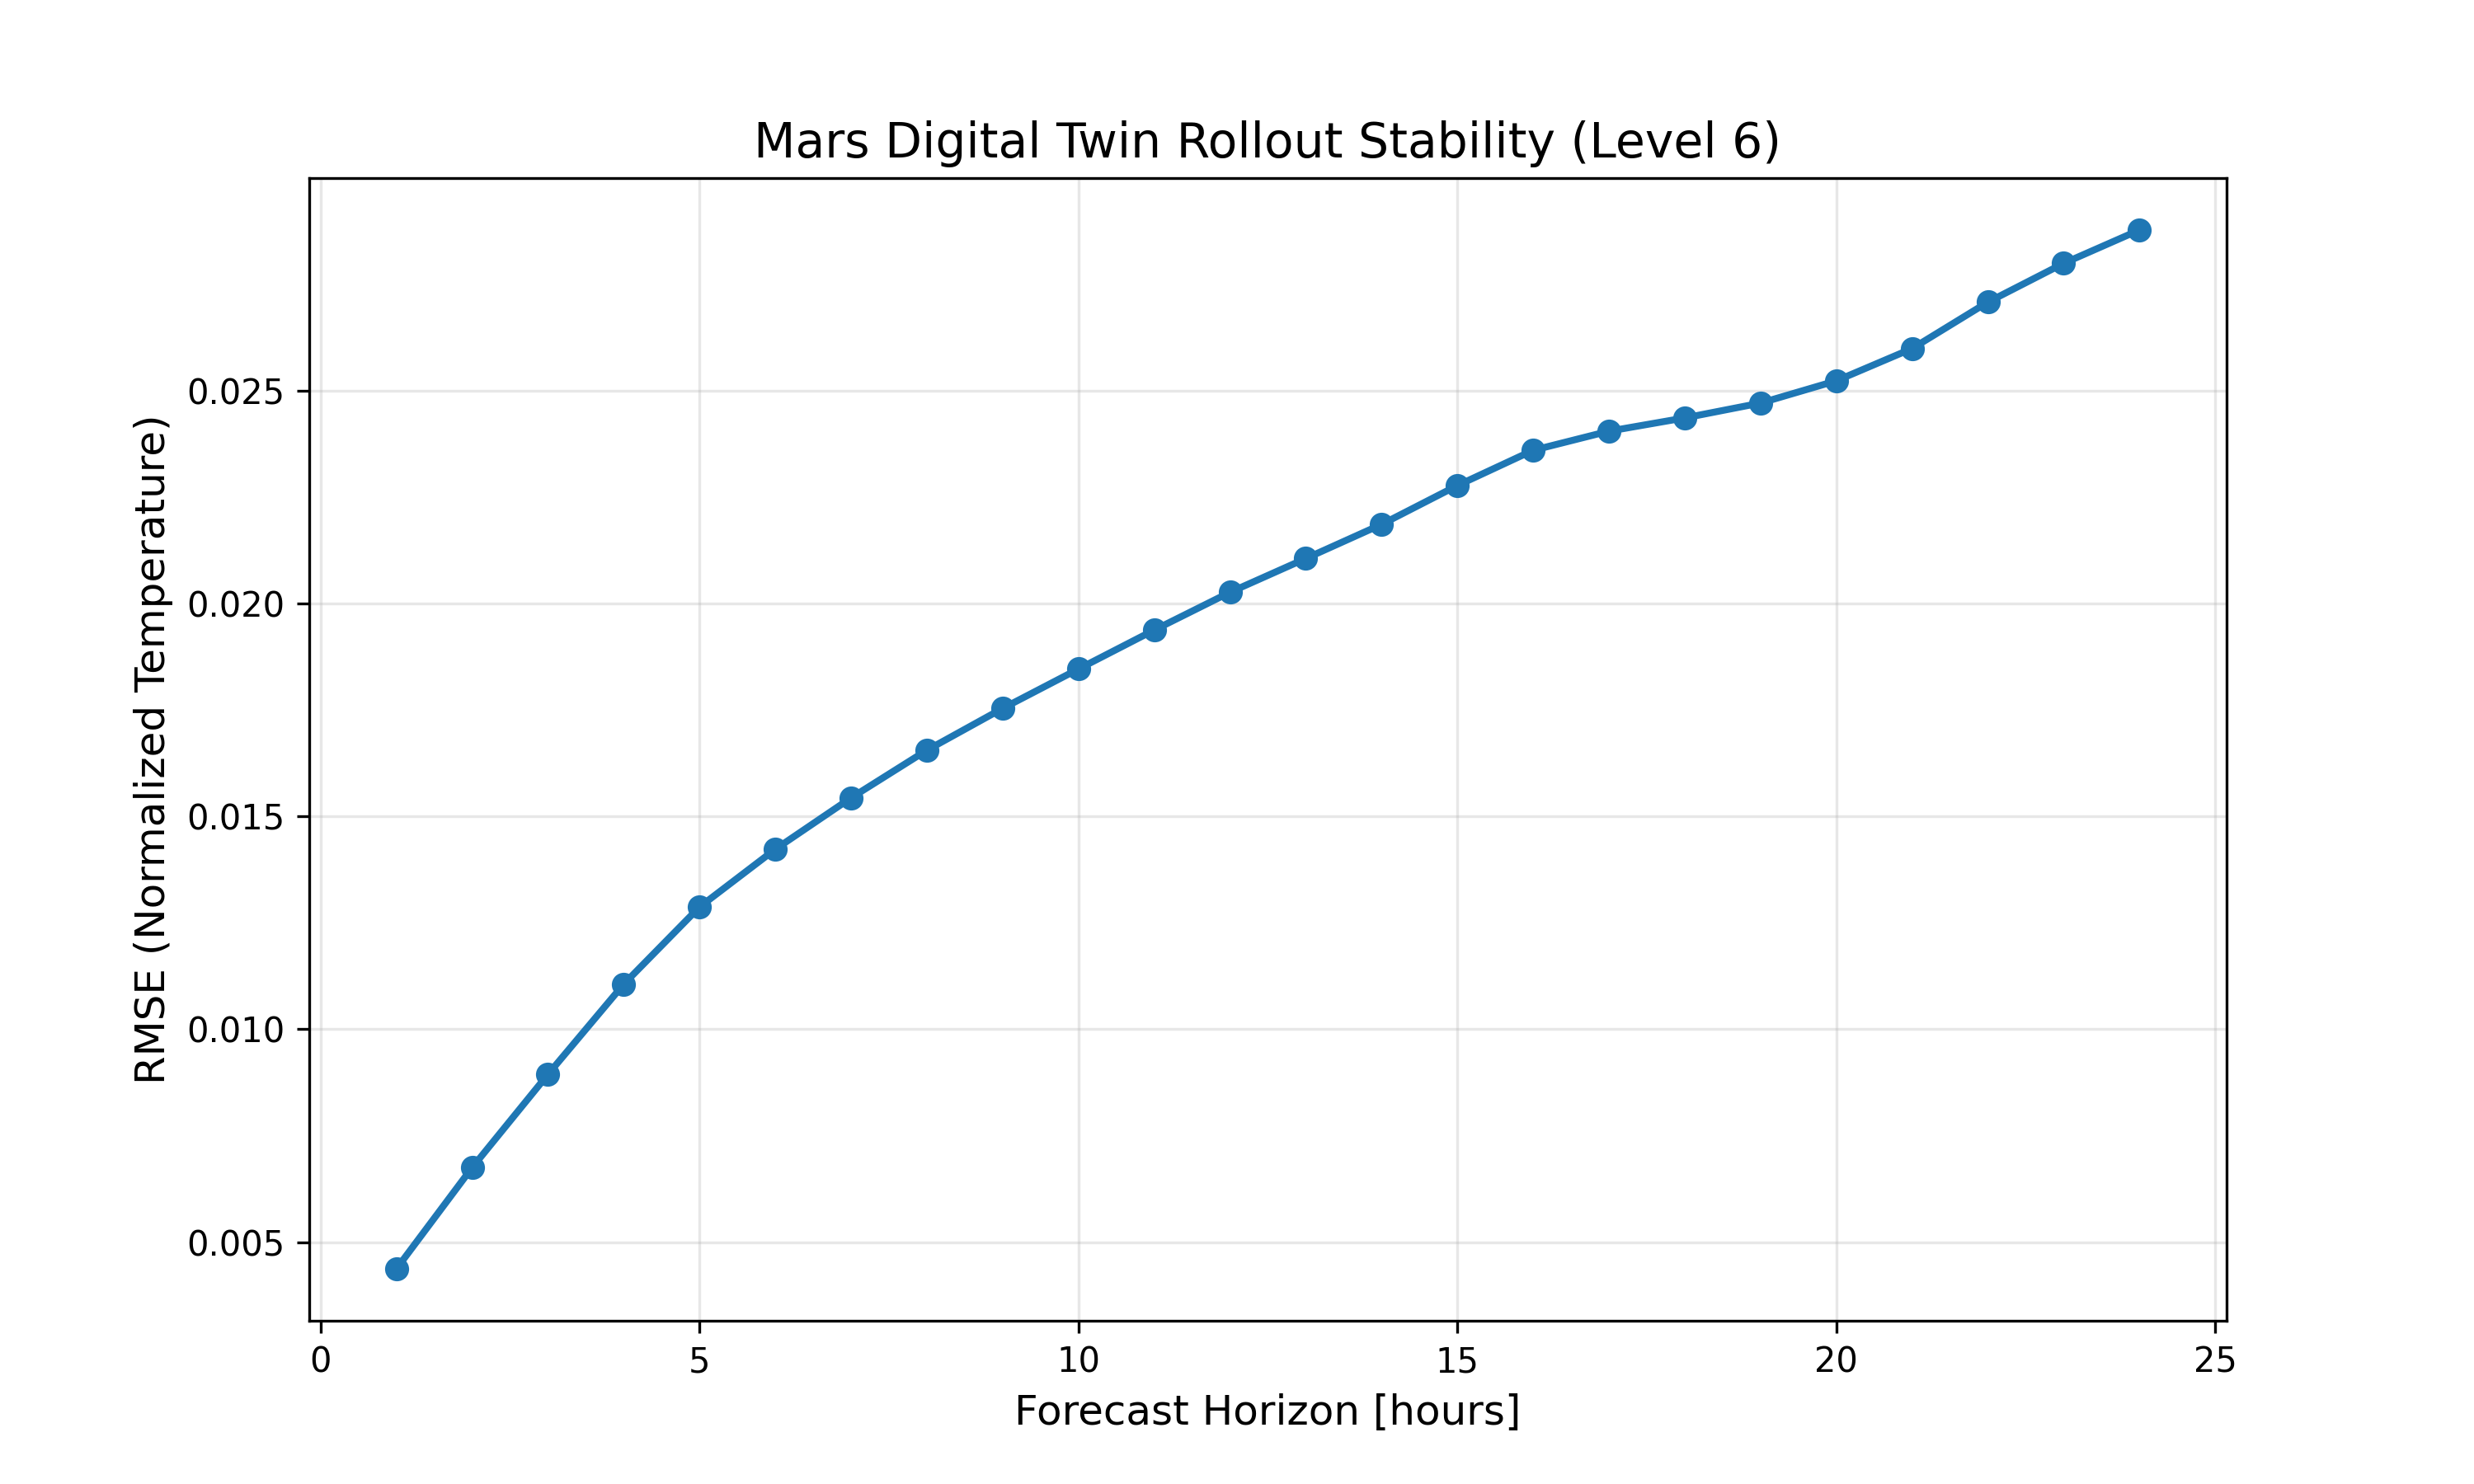
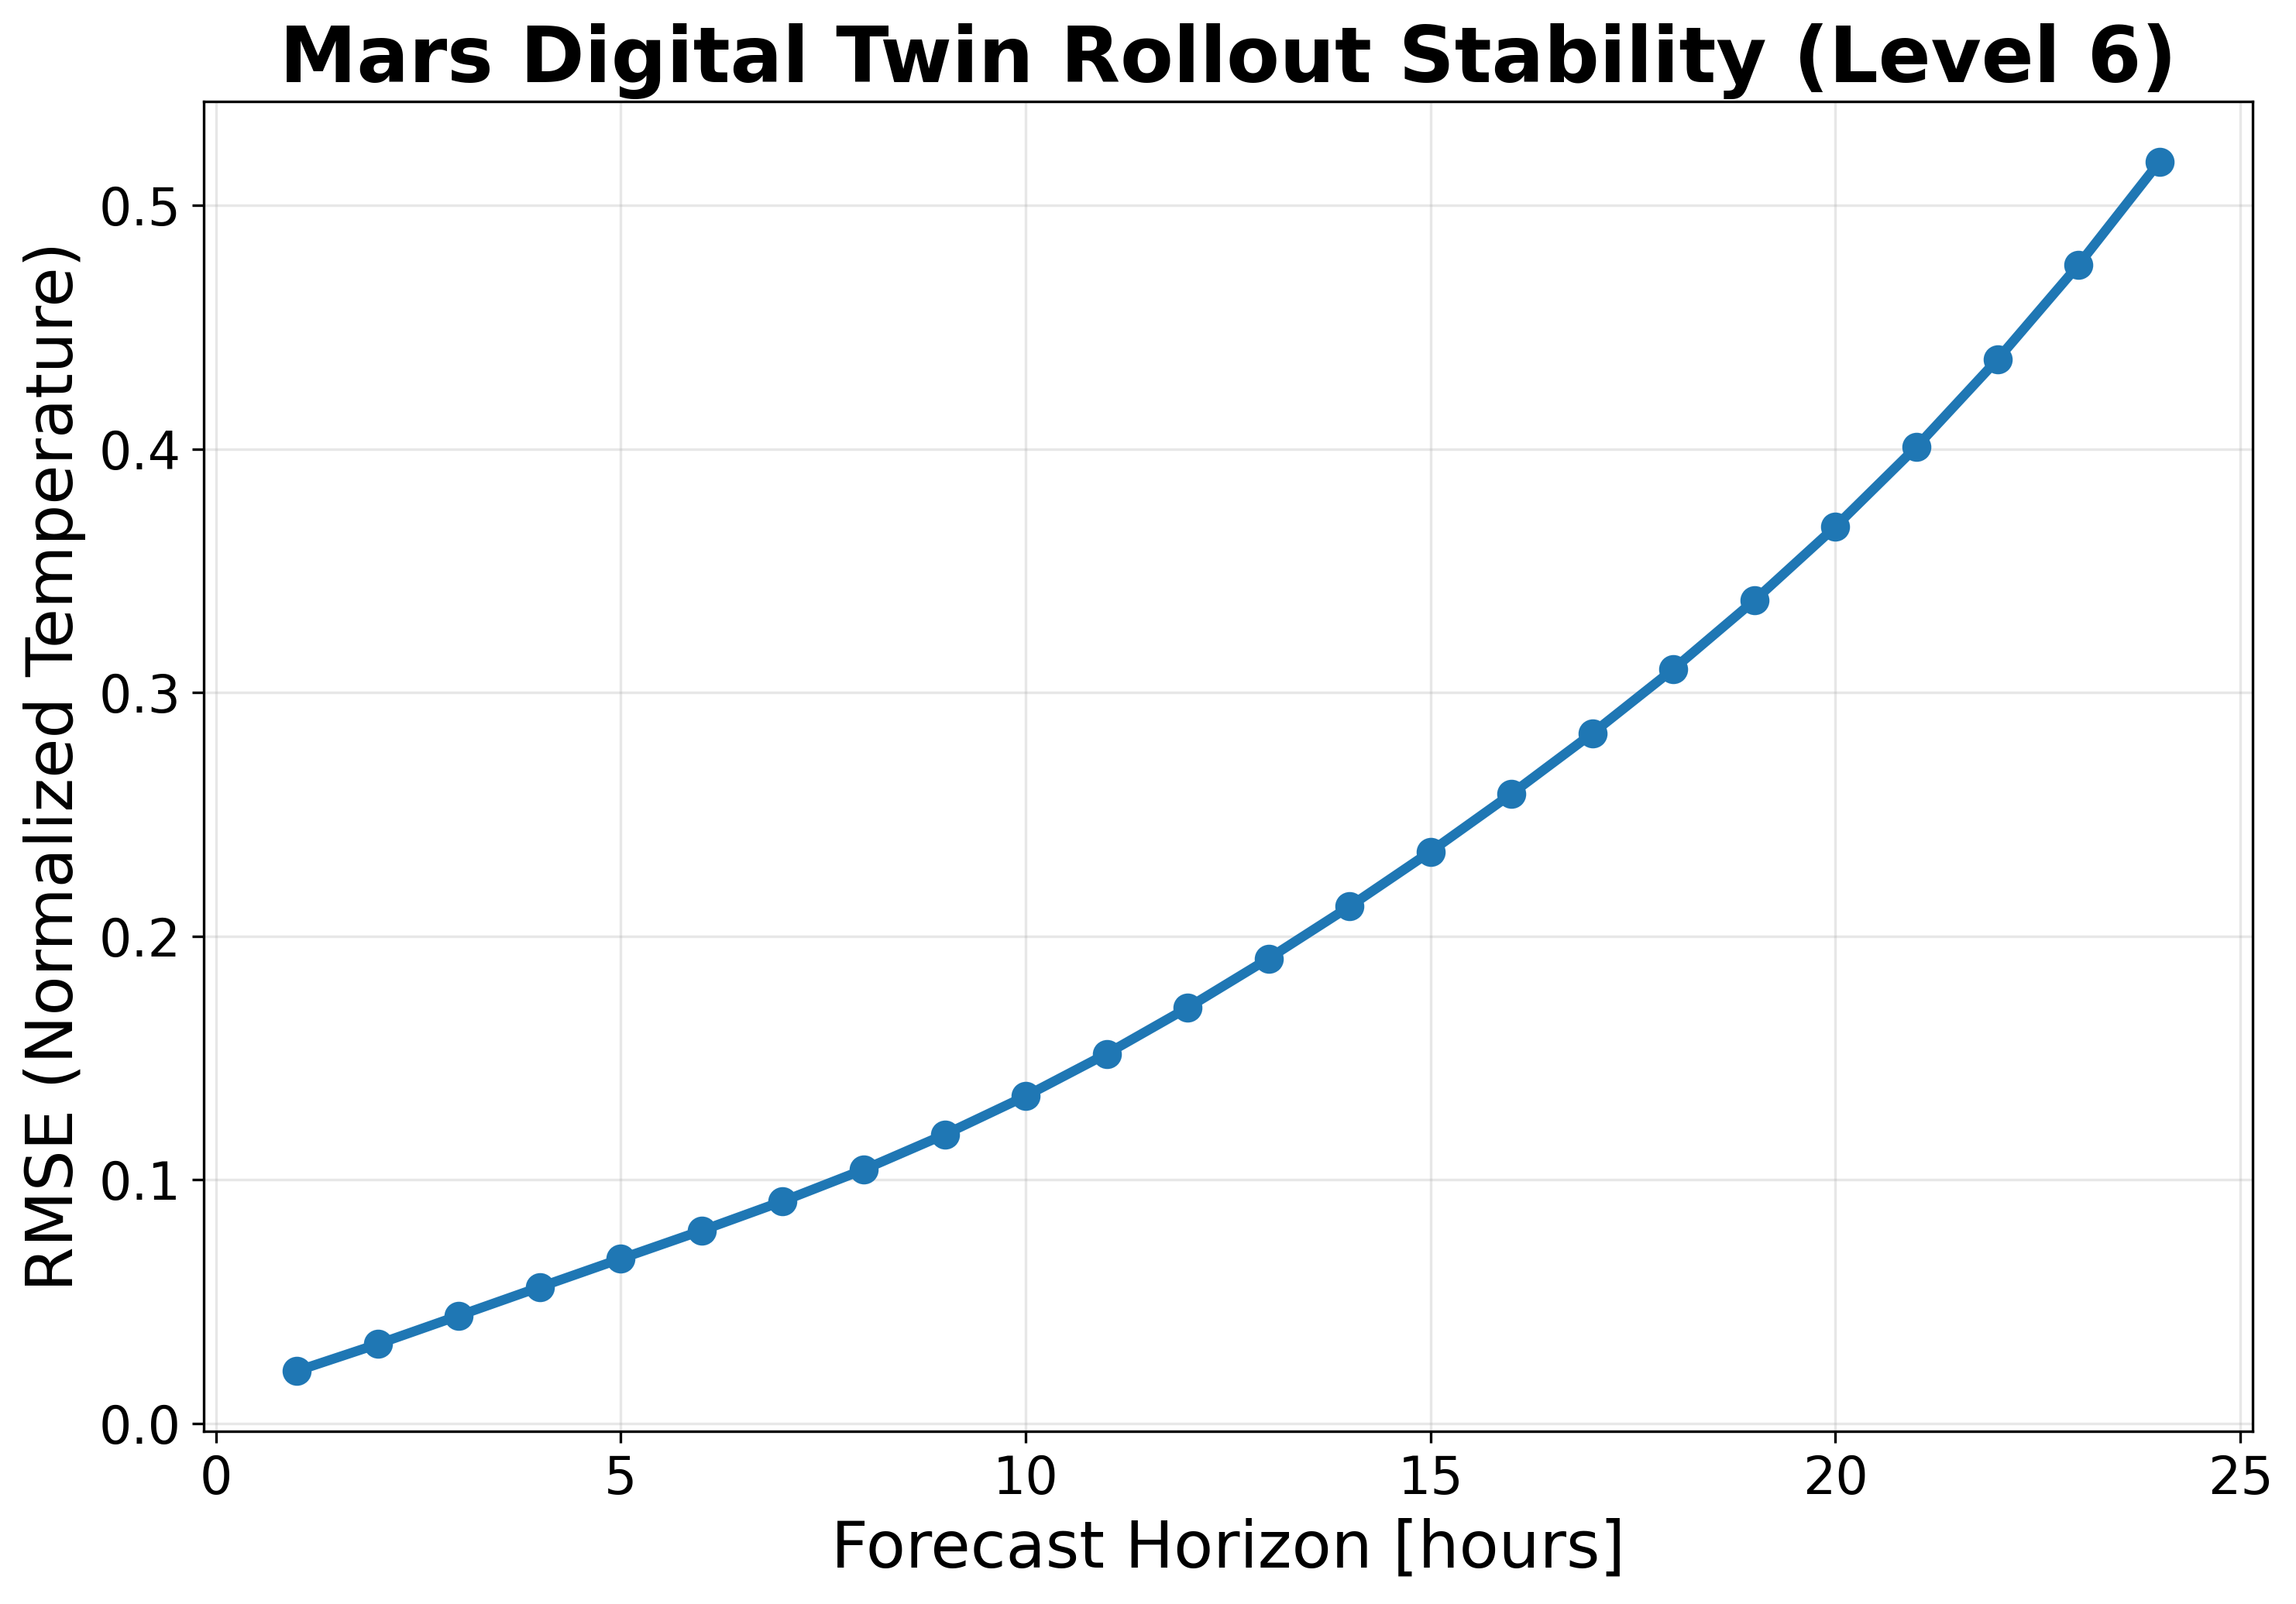
Improve plot readability and fix import side effects
- Increase font sizes in all plots (titles 24pt, labels 20pt, ticks 16pt,
  colorbar 18pt) so text is legible in two-column paper layout
- Add __main__ guard to run_mars_dlesym.py to prevent training from
  triggering on import
- Fix ACE/ACE2 reference title to match actual arXiv paper
- Regenerate all 3 figures with updated formatting

diff --git a/run_mars_dlesym.py b/run_mars_dlesym.py
@@ -268,62 +268,63 @@ class MarsLazyDataset(Dataset):
         return x, y
 
 # --- MAIN EXECUTION ---
-log.info("Loading config and metadata...")
-file_list = sorted(glob.glob(DATA_PATH + '*.nc'))[:2]
-ds_min = xr.open_dataset('min_vals_mars_real.nc')
-ds_max = xr.open_dataset('max_vals_mars_real.nc')
+if __name__ == "__main__":
+    log.info("Loading config and metadata...")
+    file_list = sorted(glob.glob(DATA_PATH + '*.nc'))[:2]
+    ds_min = xr.open_dataset('min_vals_mars_real.nc')
+    ds_max = xr.open_dataset('max_vals_mars_real.nc')
 
-log.info("Checking/Creating HEALPix Sample Cache (Lazy)...")
-sample_files = cache_healpix_per_sample(file_list, ds_min, ds_max, level=LEVEL)
+    log.info("Checking/Creating HEALPix Sample Cache (Lazy)...")
+    sample_files = cache_healpix_per_sample(file_list, ds_min, ds_max, level=LEVEL)
 
-log.info(f"Initializing Lazy Dataset with {len(sample_files)} samples...")
-dataset = MarsLazyDataset(sample_files)
-train_size = int(0.8 * len(dataset))
-train_set, val_set = torch.utils.data.random_split(dataset, [train_size, len(dataset) - train_size])
-train_loader = DataLoader(train_set, batch_size=BATCH_SIZE, shuffle=True, num_workers=2)
-val_loader = DataLoader(val_set, batch_size=BATCH_SIZE, num_workers=2)
+    log.info(f"Initializing Lazy Dataset with {len(sample_files)} samples...")
+    dataset = MarsLazyDataset(sample_files)
+    train_size = int(0.8 * len(dataset))
+    train_set, val_set = torch.utils.data.random_split(dataset, [train_size, len(dataset) - train_size])
+    train_loader = DataLoader(train_set, batch_size=BATCH_SIZE, shuffle=True, num_workers=2)
+    val_loader = DataLoader(val_set, batch_size=BATCH_SIZE, num_workers=2)
 
-# --- TRAINING ---
-model = HEALPixUNet(84, 84).to(DEVICE)
-optimizer = optim.Adam(model.parameters(), lr=LR)
-criterion = nn.MSELoss()
+    # --- TRAINING ---
+    model = HEALPixUNet(84, 84).to(DEVICE)
+    optimizer = optim.Adam(model.parameters(), lr=LR)
+    criterion = nn.MSELoss()
 
-progress = []
-progress_file = f"progress_dlesym_level{LEVEL}.json"
-log.info("Starting training...")
-best_val_loss = float('inf')
-for epoch in range(EPOCHS):
-    model.train()
-    train_loss = 0
-    pbar = tqdm(train_loader, desc=f"Epoch {epoch+1}")
-    for inputs, targets in pbar:
-        inputs, targets = inputs.to(DEVICE), targets.to(DEVICE)
-        optimizer.zero_grad()
-        outputs = model(inputs)
-        loss = criterion(outputs, targets)
-        loss.backward()
-        optimizer.step()
-        train_loss += loss.item()
-        pbar.set_postfix({"loss": f"{loss.item():.6f}"})
-    
-    model.eval()
-    val_loss = 0
-    with torch.no_grad():
-        for inputs, targets in val_loader:
+    progress = []
+    progress_file = f"progress_dlesym_level{LEVEL}.json"
+    log.info("Starting training...")
+    best_val_loss = float('inf')
+    for epoch in range(EPOCHS):
+        model.train()
+        train_loss = 0
+        pbar = tqdm(train_loader, desc=f"Epoch {epoch+1}")
+        for inputs, targets in pbar:
             inputs, targets = inputs.to(DEVICE), targets.to(DEVICE)
+            optimizer.zero_grad()
             outputs = model(inputs)
-            val_loss += criterion(outputs, targets).item()
-    
-    train_loss /= len(train_loader)
-    val_loss /= len(val_loader)
-    log.info(f"Epoch {epoch+1}/{EPOCHS} - Train: {train_loss:.6f}, Val: {val_loss:.6f}")
-    
-    progress.append({"epoch": epoch+1, "train_loss": train_loss, "val_loss": val_loss})
-    with open(progress_file, "w") as f: json.dump(progress, f, indent=2)
-    
-    if val_loss < best_val_loss:
-        best_val_loss = val_loss
-        torch.save(model.state_dict(), f"best_model_dlesym_level{LEVEL}.pth")
-        log.info(f"  Saved best model! Val: {best_val_loss:.6f}")
+            loss = criterion(outputs, targets)
+            loss.backward()
+            optimizer.step()
+            train_loss += loss.item()
+            pbar.set_postfix({"loss": f"{loss.item():.6f}"})
 
-log.info("Training complete.")
+        model.eval()
+        val_loss = 0
+        with torch.no_grad():
+            for inputs, targets in val_loader:
+                inputs, targets = inputs.to(DEVICE), targets.to(DEVICE)
+                outputs = model(inputs)
+                val_loss += criterion(outputs, targets).item()
+
+        train_loss /= len(train_loader)
+        val_loss /= len(val_loader)
+        log.info(f"Epoch {epoch+1}/{EPOCHS} - Train: {train_loss:.6f}, Val: {val_loss:.6f}")
+
+        progress.append({"epoch": epoch+1, "train_loss": train_loss, "val_loss": val_loss})
+        with open(progress_file, "w") as f: json.dump(progress, f, indent=2)
+
+        if val_loss < best_val_loss:
+            best_val_loss = val_loss
+            torch.save(model.state_dict(), f"best_model_dlesym_level{LEVEL}.pth")
+            log.info(f"  Saved best model! Val: {best_val_loss:.6f}")
+
+    log.info("Training complete.")

diff --git a/rollout_mars.py b/rollout_mars.py
@@ -81,13 +81,16 @@ def main():
         rmses.append(torch.sqrt(mse).item())
 
     # Plot Rollout Error
-    plt.figure(figsize=(10, 6))
-    plt.plot(range(1, ROLLOUT_STEPS + 1), rmses, marker='o', linewidth=2)
-    plt.title(f"Mars Digital Twin Rollout Stability (Level {LEVEL})", fontsize=14)
-    plt.xlabel("Forecast Horizon [hours]", fontsize=12)
-    plt.ylabel("RMSE (Normalized Temperature)", fontsize=12)
+    plt.figure(figsize=(10, 7))
+    plt.plot(range(1, ROLLOUT_STEPS + 1), rmses, marker='o', linewidth=3, markersize=8, color='#1f77b4')
+    plt.title(f"Mars Digital Twin Rollout Stability (Level {LEVEL})", fontsize=24, fontweight='bold')
+    plt.xlabel("Forecast Horizon [hours]", fontsize=20)
+    plt.ylabel("RMSE (Normalized Temperature)", fontsize=20)
+    plt.xticks(fontsize=16)
+    plt.yticks(fontsize=16)
     plt.grid(True, alpha=0.3)
-    plt.savefig("rollout_stability_level6.png", dpi=300)
+    plt.tight_layout()
+    plt.savefig("rollout_stability_level6.png", dpi=300, bbox_inches='tight')
     print("Rollout stability plot saved as rollout_stability_level6.png")
 
     # Final visual check at hour 24
@@ -99,19 +102,25 @@ def main():
     fig, axs = plt.subplots(1, 2, figsize=(20, 8))
     extent = [0, 360, -90, 90]
     im0 = axs[0].imshow(true_ll, cmap="inferno", extent=extent, origin='lower', aspect='auto')
-    axs[0].set_title("EMARS Ground Truth (T+24h)", fontsize=16)
-    axs[0].set_xlabel("Longitude [°E]")
-    axs[0].set_ylabel("Latitude [°N]")
-    plt.colorbar(im0, ax=axs[0])
+    axs[0].set_title("EMARS Ground Truth (T+24h)", fontsize=24, fontweight='bold')
+    axs[0].set_xlabel("Longitude [°E]", fontsize=20)
+    axs[0].set_ylabel("Latitude [°N]", fontsize=20)
+    axs[0].tick_params(axis='both', labelsize=16)
+    cb0 = plt.colorbar(im0, ax=axs[0])
+    cb0.set_label("Normalized T", fontsize=18)
+    cb0.ax.tick_params(labelsize=14)
 
     im1 = axs[1].imshow(pred_ll, cmap="inferno", extent=extent, origin='lower', aspect='auto')
-    axs[1].set_title(f"DLESyM 24h Forecast (Level {LEVEL})", fontsize=16)
-    axs[1].set_xlabel("Longitude [°E]")
-    axs[1].set_ylabel("Latitude [°N]")
-    plt.colorbar(im1, ax=axs[1])
+    axs[1].set_title(f"DLESyM 24h Forecast (Level {LEVEL})", fontsize=24, fontweight='bold')
+    axs[1].set_xlabel("Longitude [°E]", fontsize=20)
+    axs[1].set_ylabel("Latitude [°N]", fontsize=20)
+    axs[1].tick_params(axis='both', labelsize=16)
+    cb1 = plt.colorbar(im1, ax=axs[1])
+    cb1.set_label("Normalized T", fontsize=18)
+    cb1.ax.tick_params(labelsize=14)
 
     plt.tight_layout()
-    plt.savefig(f"rollout_comparison_24h_level{LEVEL}.png", dpi=300)
+    plt.savefig(f"rollout_comparison_24h_level{LEVEL}.png", dpi=300, bbox_inches='tight')
     print(f"24h comparison plot saved as rollout_comparison_24h_level{LEVEL}.png")
 
 if __name__ == "__main__":

diff --git a/viz_mars_dlesym.py b/viz_mars_dlesym.py
@@ -70,21 +70,27 @@ def main():
 
     fig, axs = plt.subplots(1, 2, figsize=(20, 8))
     extent = [0, 360, -90, 90]
-    
+
     im0 = axs[0].imshow(true_ll, cmap="inferno", extent=extent, origin='lower', aspect='auto')
-    axs[0].set_title("EMARS Ground Truth (T, surface)", fontsize=16)
-    axs[0].set_xlabel("Longitude [°E]", fontsize=12)
-    axs[0].set_ylabel("Latitude [°N]", fontsize=12)
-    plt.colorbar(im0, ax=axs[0], label="Normalized T")
+    axs[0].set_title("EMARS Ground Truth (T, surface)", fontsize=24, fontweight='bold')
+    axs[0].set_xlabel("Longitude [°E]", fontsize=20)
+    axs[0].set_ylabel("Latitude [°N]", fontsize=20)
+    axs[0].tick_params(axis='both', labelsize=16)
+    cb0 = plt.colorbar(im0, ax=axs[0])
+    cb0.set_label("Normalized T", fontsize=18)
+    cb0.ax.tick_params(labelsize=14)
 
     im1 = axs[1].imshow(pred_ll, cmap="inferno", extent=extent, origin='lower', aspect='auto')
-    axs[1].set_title(f"DLESyM Prediction Level {LEVEL}", fontsize=16)
-    axs[1].set_xlabel("Longitude [°E]", fontsize=12)
-    axs[1].set_ylabel("Latitude [°N]", fontsize=12)
-    plt.colorbar(im1, ax=axs[1], label="Normalized T")
+    axs[1].set_title(f"DLESyM Prediction Level {LEVEL}", fontsize=24, fontweight='bold')
+    axs[1].set_xlabel("Longitude [°E]", fontsize=20)
+    axs[1].set_ylabel("Latitude [°N]", fontsize=20)
+    axs[1].tick_params(axis='both', labelsize=16)
+    cb1 = plt.colorbar(im1, ax=axs[1])
+    cb1.set_label("Normalized T", fontsize=18)
+    cb1.ax.tick_params(labelsize=14)
 
     plt.tight_layout()
-    plt.savefig(f"dlesym_comparison_level{LEVEL}.png", dpi=300)
+    plt.savefig(f"dlesym_comparison_level{LEVEL}.png", dpi=300, bbox_inches='tight')
     print(f"Plot saved as dlesym_comparison_level{LEVEL}.png")
 
 if __name__ == "__main__":

diff --git a/paper.tex b/paper.tex
@@ -324,7 +324,7 @@ We thank the Keck Institute for Space Studies (KISS) at the California Institute
 
 \bibitem{wattmeyer2024}
 Watt-Meyer, O., Dresdner, G., McGibbon, J., et al. (2024).
-\newblock {ACE2}: Accurately learning the {E}arth's climatic variables from a coupled atmosphere model.
+\newblock {ACE}: A fast, skillful learned global atmospheric model for climate prediction.
 \newblock \textit{arXiv preprint arXiv:2310.02074}.
 
 \bibitem{hendrycks2016}